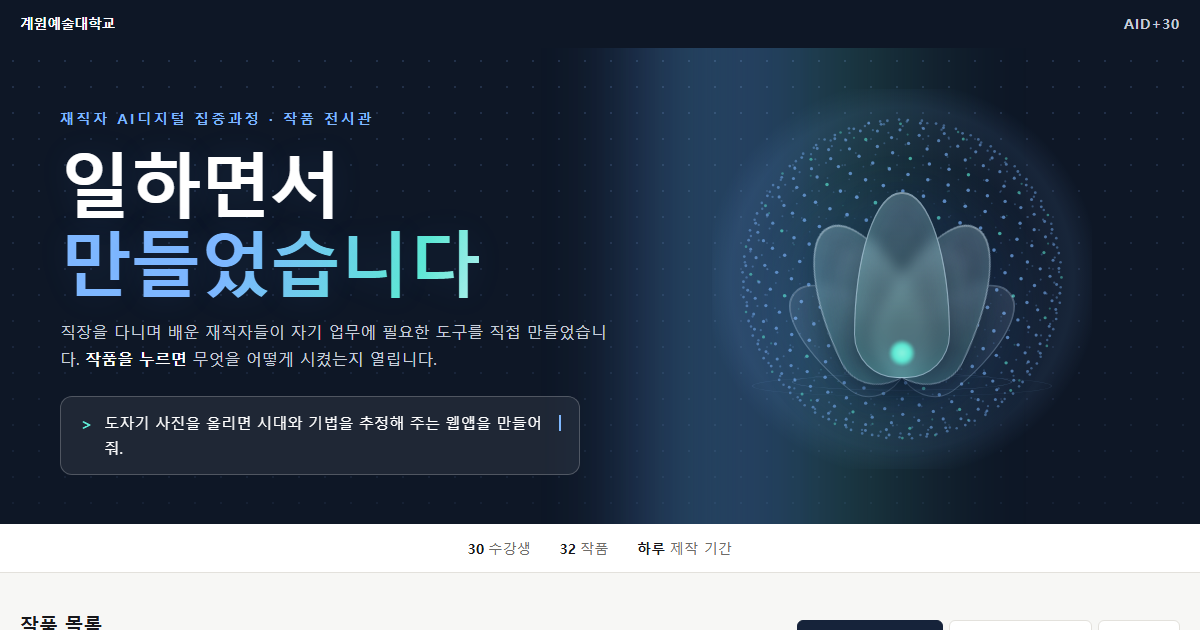
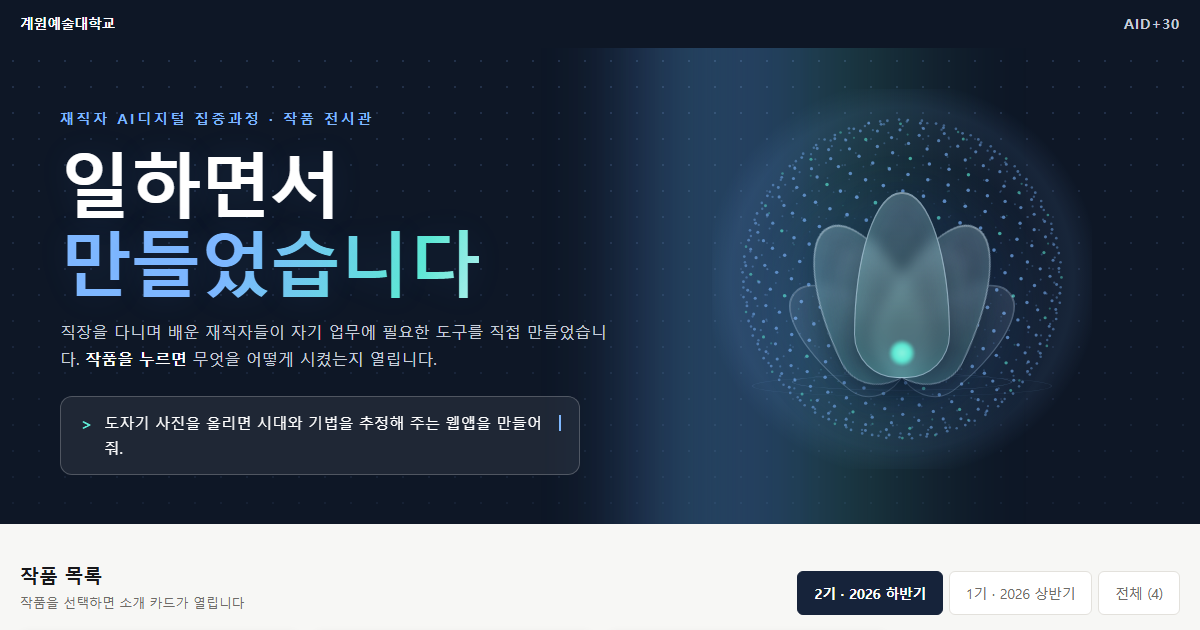
feat: 소개 스트립 삭제
- 히어로 아래 통계 한 줄(마크업·CSS·JS) 제거, og.png 재캡처
- data/items.js의 SITE.stats는 미사용 상태로 유지

diff --git a/index.html b/index.html
@@ -267,15 +267,6 @@ button{font-family:inherit;cursor:pointer}
   .ripple{animation:none;opacity:var(--o)}
 }
 
-/* ---------- 소개 스트립 ---------- */
-.stats{
-  background:var(--paper);border-bottom:1px solid var(--line);
-  display:flex;justify-content:center;align-items:center;
-  gap:8px 28px;flex-wrap:wrap;
-  padding:12px 20px;font-size:.9rem;color:var(--muted);
-}
-.stats b{color:var(--ink);font-weight:700;margin-right:4px}
-
 /* ---------- 작품 목록 ---------- */
 .works{max-width:1200px;width:100%;margin:0 auto;padding:0 20px 64px}
 .toolbar{
@@ -438,9 +429,6 @@ footer .org{color:var(--on-brand);font-weight:700;font-size:.9rem}
   </div>
 </header>
 
-<!-- ================= 소개 스트립 ================= -->
-<div class="stats" id="statsSlot"></div>
-
 <!-- ================= 작품 목록 ================= -->
 <main class="works">
   <div class="toolbar">
@@ -507,10 +495,6 @@ $("titleSlot").innerHTML =
   ).join(" ") +
   `<br><span class="glow">${SITE.titleGlow}</span>`;
 $("subSlot").innerHTML = SITE.subHTML;
-
-/* ---------- 소개 스트립 ---------- */
-$("statsSlot").innerHTML =
-  SITE.stats.map(s => `<span><b>${s.value}</b>${s.label}</span>`).join("");
 
 /* ---------- 타이핑 카드 — 문구를 데이터에서 생성 (명세 5절 시그니처) ---------- */
 (function typing(){
